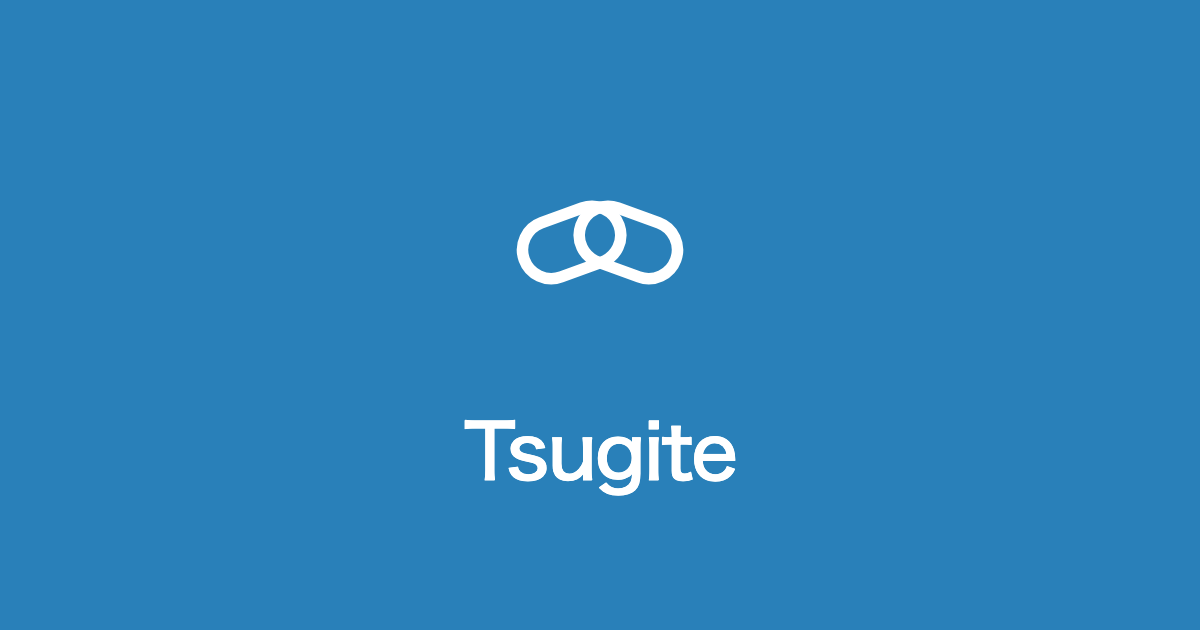
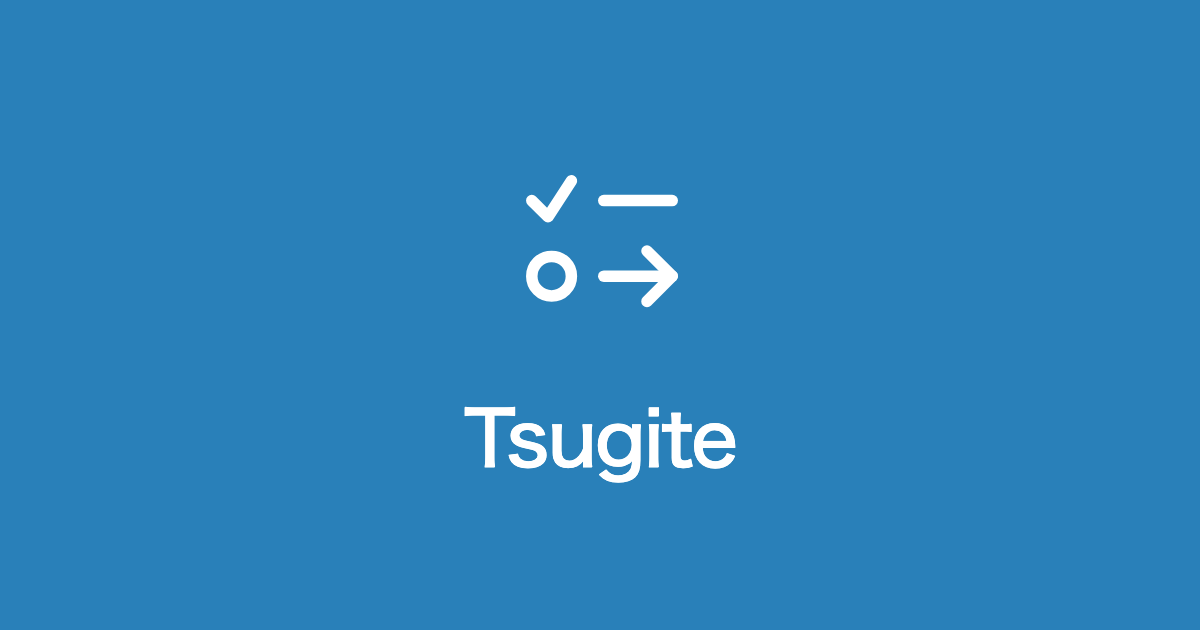
アイコンを「チェック＋次の矢印」に刷新
鎖のアイコンは意味が伝わりにくかったため、完了(✓)と次の一手(→)を
示すシンプルな線画に変更。favicon/タッチアイコン/OGP/ログイン画面/
ヘッダー/機能紹介ページに反映。

Changed region(s): [[0.37, 0.6333, 0.6167, 0.7841], [0.4317, 0.2714, 0.5858, 0.4825]]

diff --git a/index.html b/index.html
@@ -34,7 +34,7 @@
   <!-- ログイン画面 -->
   <div id="login-screen" class="login-screen">
     <div class="login-card">
-      <span class="login-card__logo"><svg viewBox="0 0 64 64" fill="none" stroke="currentColor" stroke-width="3.2" stroke-linecap="round" stroke-linejoin="round"><g transform="rotate(-20 26 32)"><rect x="10" y="24" width="28" height="16" rx="8"/></g><g transform="rotate(20 38 32)"><rect x="26" y="24" width="28" height="16" rx="8"/></g></svg></span>
+      <span class="login-card__logo"><svg viewBox="0 0 64 64" fill="none" stroke="currentColor" stroke-width="3.2" stroke-linecap="round" stroke-linejoin="round"><path d="M13 21l4.5 4.5L24 15.5"/><path d="M33 21H52"/><circle cx="18.5" cy="42" r="5.5"/><path d="M33 42H52"/><path d="M45 35l7 7-7 7"/></svg></span>
       <h1 class="login-card__title">Tsugite</h1>
       <p class="login-card__tagline">複雑な仕事を、次の一手に。<br>ひとつずつ見える化して、進めていきましょう。</p>
       <button id="btn-google-login" class="google-btn">
@@ -51,7 +51,7 @@
 
   <div id="app" class="hidden">
     <header class="app-header">
-      <span class="app-header__brand"><svg viewBox="0 0 64 64" fill="none" stroke="currentColor" stroke-width="3.2" stroke-linecap="round" stroke-linejoin="round"><g transform="rotate(-20 26 32)"><rect x="10" y="24" width="28" height="16" rx="8"/></g><g transform="rotate(20 38 32)"><rect x="26" y="24" width="28" height="16" rx="8"/></g></svg> Tsugite</span>
+      <span class="app-header__brand"><svg viewBox="0 0 64 64" fill="none" stroke="currentColor" stroke-width="3.2" stroke-linecap="round" stroke-linejoin="round"><path d="M13 21l4.5 4.5L24 15.5"/><path d="M33 21H52"/><circle cx="18.5" cy="42" r="5.5"/><path d="M33 42H52"/><path d="M45 35l7 7-7 7"/></svg> Tsugite</span>
       <nav class="app-header__nav">
         <a href="about.html" class="app-header__about-link">アプリについて</a>
         <div id="user-info" class="app-header__user hidden">

diff --git a/about.html b/about.html
@@ -185,7 +185,7 @@
 
   <section class="hero">
     <span class="category-pill">仕事</span>
-    <div class="badge"><svg viewBox="0 0 64 64" fill="none" stroke="currentColor" stroke-width="3.2" stroke-linecap="round" stroke-linejoin="round"><g transform="rotate(-20 26 32)"><rect x="10" y="24" width="28" height="16" rx="8"/></g><g transform="rotate(20 38 32)"><rect x="26" y="24" width="28" height="16" rx="8"/></g></svg></div>
+    <div class="badge"><svg viewBox="0 0 64 64" fill="none" stroke="currentColor" stroke-width="3.2" stroke-linecap="round" stroke-linejoin="round"><path d="M13 21l4.5 4.5L24 15.5"/><path d="M33 21H52"/><circle cx="18.5" cy="42" r="5.5"/><path d="M33 42H52"/><path d="M45 35l7 7-7 7"/></svg></div>
     <h1>Tsugite</h1>
     <p class="tagline">複雑な仕事を、次の一手に。案件をタスクに分解し、今すぐ着手できる「次の一手」だけを示して、推進力を上げる小さなタスク管理アプリです。</p>
     <a class="cta" href="https://tsugite-ten.vercel.app">アプリを使ってみる →</a>
